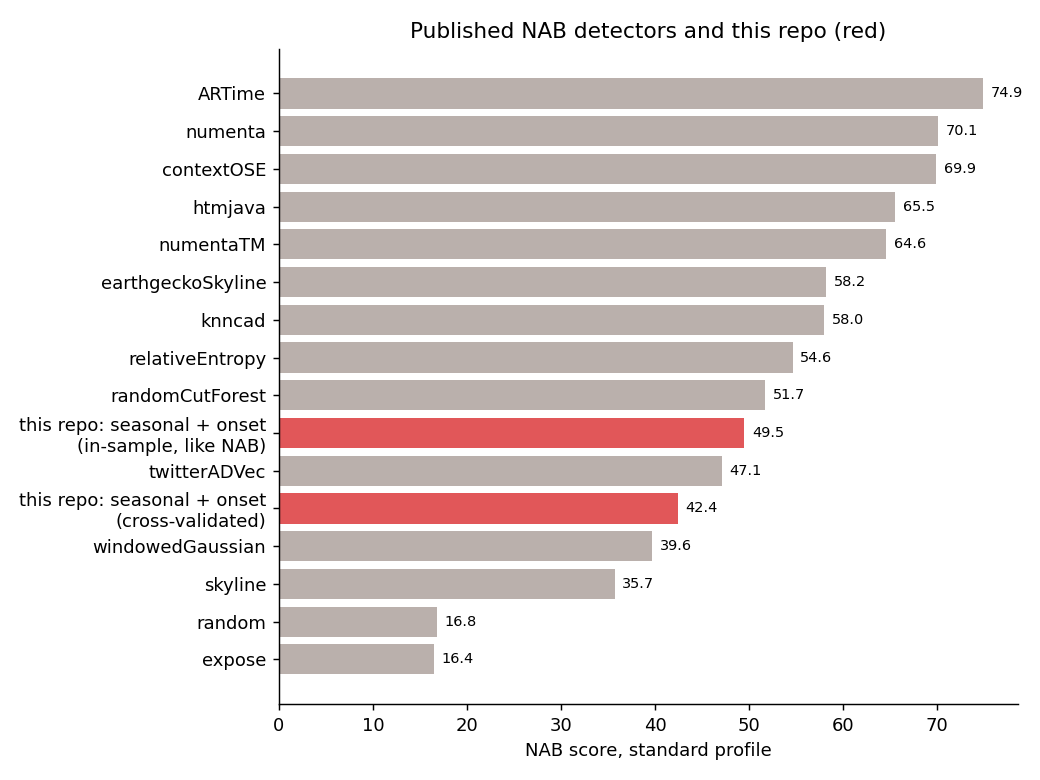
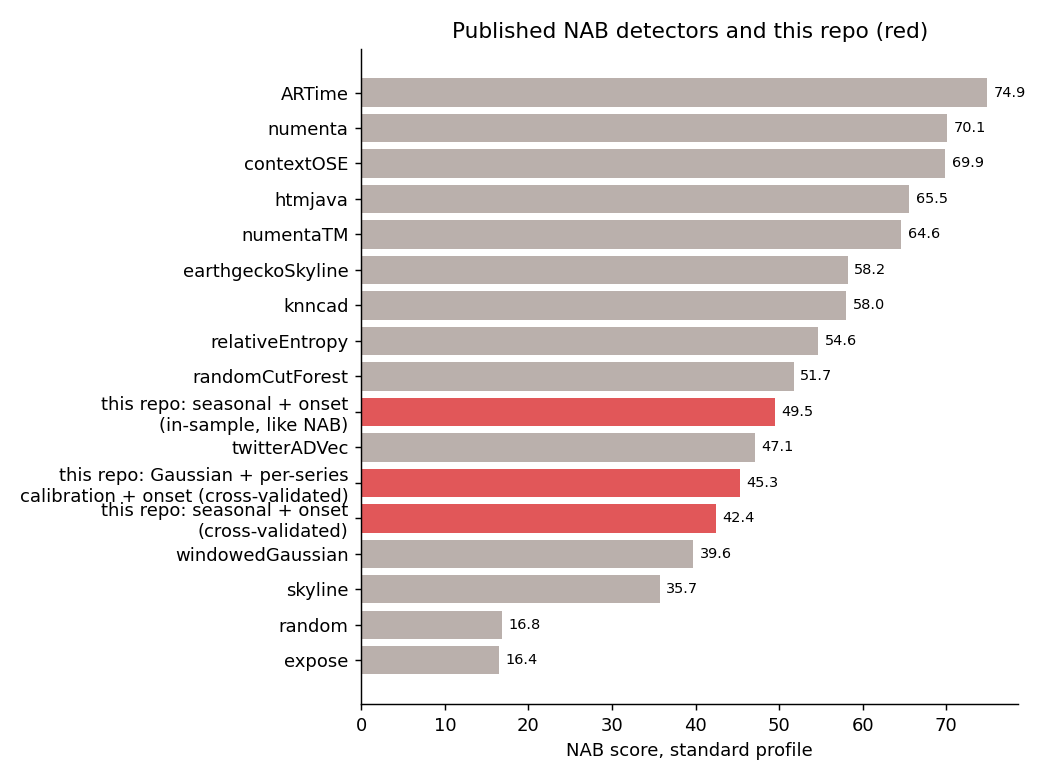
Per-series calibration: test the per-asset threshold the machine example suggested (#1)
detectors.calibrate ranks each score against its own series' past (no look-ahead).
Gaussian + calibration + onset scores 45.3 cross-validated (was 30.4; seasonal 42.4), with
the same k in all folds; known-cause 29 -> 50. It hurts the seasonal detector (42.4 -> 37.4)
and still misses the machine-temperature failure. New figure, README section 5, Pages section.

diff --git a/docs/index.html b/docs/index.html
@@ -71,14 +71,14 @@
   <div class="stats">
     <div class="stat"><b>9 / 9</b><span>published NAB results reproduced exactly by the scorer</span></div>
     <div class="stat"><b>2.4 &rarr; 41.0</b><span>seasonal detector once it reports only onsets</span></div>
-    <div class="stat"><b>42.4</b><span>cross-validated score (49.5 tuned in-sample)</span></div>
-    <div class="stat"><b>27.1</b><span>on the known-cause series, the weakest category</span></div>
+    <div class="stat"><b>45.3</b><span>cross-validated score with per-series calibration (seasonal: 42.4)</span></div>
+    <div class="stat"><b>27 &rarr; 50</b><span>known-cause series, single threshold vs per-series calibration</span></div>
   </div>
 </header>
 
 <h2><span class="num">01</span>Where it lands</h2>
 <figure>
-  <img src="img/leaderboard.png" alt="Horizontal bar chart of NAB standard scores: published detectors from expose 16.4 to ARTime 74.9, with this repo at 49.5 in-sample and 42.4 cross-validated, both above windowedGaussian 39.6.">
+  <img src="img/leaderboard.png" alt="Horizontal bar chart of NAB standard scores: published detectors from expose 16.4 to ARTime 74.9, with this repo at 49.5 in-sample, 42.4 and 45.3 cross-validated, all above windowedGaussian 39.6.">
   <figcaption>Published detectors (grey) and this repo (red). The cross-validated score chooses settings and threshold without the data it scores; most published numbers do not.</figcaption>
 </figure>
 
@@ -92,6 +92,12 @@
 <figure>
   <img src="img/machine.png" alt="Machine temperature series with four labelled anomaly windows and the detector score below; the score rises inside three windows to about 0.4-0.6, but the corpus threshold of 0.753 is above every value.">
   <figcaption>The detector reacts inside three of four windows on a real industrial failure, but the single corpus-wide threshold is set by the other 57 series and flags nothing here.</figcaption>
+</figure>
+
+<h2><span class="num">04</span>A per-series threshold, tested</h2>
+<figure>
+  <img src="img/calibration.png" alt="Grouped bars for four detectors: Gaussian 44.6 in-sample, 30.4 cross-validated, 29.3 known-cause; Gaussian with calibration 46.2, 45.3, 49.7; seasonal 49.5, 42.4, 27.1; seasonal with calibration 49.1, 37.4, 34.8.">
+  <figcaption>Ranking each score against its own series' history makes the Gaussian detector the best honest number (45.3, same setting in every fold) and lifts the known-cause series from 29 to 50. It hurts the seasonal detector, which is already scaled per series, and still misses the machine failure.</figcaption>
 </figure>
 
 <footer>

diff --git a/src/nabscore/calibration.py b/src/nabscore/calibration.py
@@ -1,0 +1,77 @@
+"""Corpus threshold vs per-series calibration, in-sample and leave-one-category-out.
+
+Same raw scores and onset reporting as crossval.py; the only change is whether the
+scores are ranked against each series' own history (detectors.calibrate) before the
+single NAB threshold is applied.
+"""
+from __future__ import annotations
+
+import json
+import pickle
+from pathlib import Path
+
+import numpy as np
+
+from . import detectors as D
+from .crossval import K_GRID, frames
+from .run import load_corpus
+from .scoring import PROFILES, load_windows, nab_score, raw_at
+
+
+def scores(raw, det, k, calibrated):
+    out = {}
+    for r, v in raw.items():
+        s = D.squash(v[det])
+        out[r] = D.onset(D.calibrate(s) if calibrated else s, k)
+    return out
+
+
+def cross_validated(corpus, windows, per_k):
+    cats = sorted({r.split("/")[0] for r in corpus})
+    total_raw, total_windows, picks = 0.0, 0, {}
+    for held in cats:
+        train = [r for r in corpus if not r.startswith(held + "/")]
+        test = [r for r in corpus if r.startswith(held + "/")]
+        fits = {k: nab_score(frames(corpus, per_k[k], train), {r: windows[r] for r in train}) for k in per_k}
+        k_best = max(fits, key=lambda k: fits[k]["score"])
+        raw_score, n_win = raw_at(frames(corpus, per_k[k_best], test), {r: windows[r] for r in test},
+                                  fits[k_best]["threshold"])
+        total_raw += raw_score
+        total_windows += n_win
+        picks[held] = k_best
+    w = PROFILES["standard"]
+    null, perfect = -w["fn"] * total_windows, w["tp"] * total_windows
+    return 100 * (total_raw - null) / (perfect - null), picks
+
+
+def by_category(corpus, windows, s):
+    out = {}
+    for c in sorted({r.split("/")[0] for r in corpus}):
+        files = [r for r in corpus if r.startswith(c + "/")]
+        if sum(len(windows[r]) for r in files):
+            out[c] = nab_score(frames(corpus, s, files), {r: windows[r] for r in files})["score"]
+    return out
+
+
+def main() -> None:
+    windows = load_windows()
+    corpus = load_corpus(windows)
+    raw = pickle.loads(Path("data/cache/raw.pkl").read_bytes())
+    out = {}
+    for det in ("gaussian", "seasonal"):
+        for calibrated in (False, True):
+            name = f"{det} + {'per-series calibration + ' if calibrated else ''}onset"
+            per_k = {k: scores(raw, det, k, calibrated) for k in K_GRID}
+            fits = {k: nab_score(frames(corpus, per_k[k], corpus), windows) for k in K_GRID}
+            k_in = max(fits, key=lambda k: fits[k]["score"])
+            cv, picks = cross_validated(corpus, windows, per_k)
+            out[name] = {"in_sample_by_k": {k: f["score"] for k, f in fits.items()}, "best_in_sample": fits[k_in]["score"],
+                         "k_in_sample": k_in, "threshold": fits[k_in]["threshold"], "cross_validated": cv,
+                         "k_picked": picks, "by_category": by_category(corpus, windows, per_k[k_in])}
+            print(name, round(fits[k_in]["score"], 1), f"k={k_in}", "CV", round(cv, 1), picks,
+                  {c: round(v, 1) for c, v in out[name]["by_category"].items()}, flush=True)
+    Path("reports/calibration.json").write_text(json.dumps(out, indent=2, default=float))
+
+
+if __name__ == "__main__":
+    main()

diff --git a/src/nabscore/figures.py b/src/nabscore/figures.py
@@ -44,6 +44,9 @@ def main() -> None:
     board = {k: v["standard"] for k, v in pub.items() if k != "null"}
     board["this repo: seasonal + onset\n(in-sample, like NAB)"] = summary["standard"]["score"]
     board["this repo: seasonal + onset\n(cross-validated)"] = cv["seasonal"]["cross_validated"]
+    cal = json.loads(Path("reports/calibration.json").read_text())
+    board["this repo: Gaussian + per-series\ncalibration + onset (cross-validated)"] = \
+        cal["gaussian + per-series calibration + onset"]["cross_validated"]
     items = sorted(board.items(), key=lambda kv: kv[1])
     fig, ax = plt.subplots(figsize=(8, 6))
     colors = ["#E15759" if "this repo" in k else "#BAB0AC" for k, _ in items]
@@ -55,6 +58,29 @@ def main() -> None:
     ax.spines[["top", "right"]].set_visible(False)
     fig.tight_layout()
     fig.savefig(OUT / "leaderboard.png", dpi=130)
+    plt.close(fig)
+
+    # 1b. Per-series calibration: in-sample vs cross-validated, and the known-cause category
+    names = ["gaussian + onset", "gaussian + per-series calibration + onset",
+             "seasonal + onset", "seasonal + per-series calibration + onset"]
+    labels = ["Gaussian", "Gaussian\n+ calibration", "Seasonal", "Seasonal\n+ calibration"]
+    series = [("in-sample", [cal[n]["best_in_sample"] for n in names], "#BAB0AC"),
+              ("cross-validated", [cal[n]["cross_validated"] for n in names], "#E15759"),
+              ("known-cause category", [cal[n]["by_category"]["realKnownCause"] for n in names], "#4E79A7")]
+    fig, ax = plt.subplots(figsize=(8, 4.2))
+    x = np.arange(len(names))
+    for j, (lab, vals, col) in enumerate(series):
+        ax.bar(x + (j - 1) * 0.27, vals, 0.27, label=lab, color=col)
+        for i, v in enumerate(vals):
+            ax.text(x[i] + (j - 1) * 0.27, v + 0.8, f"{v:.0f}", ha="center", fontsize=8)
+    ax.set_xticks(x, labels)
+    ax.set_ylabel("NAB score, standard profile")
+    ax.set_title("Ranking each score against its own series' history (all with onset reporting)")
+    ax.set_ylim(0, 60)
+    ax.legend(frameon=False, fontsize=8, loc="upper center", ncol=3)
+    ax.spines[["top", "right"]].set_visible(False)
+    fig.tight_layout()
+    fig.savefig(OUT / "calibration.png", dpi=130)
     plt.close(fig)
 
     # 2. Onset effect, in-sample at k = 100 vs without

diff --git a/src/nabscore/detectors.py b/src/nabscore/detectors.py
@@ -103,3 +103,24 @@ def onset(score: np.ndarray, k: int = 100) -> np.ndarray:
 def squash(raw: np.ndarray) -> np.ndarray:
     """Map a non-negative raw score to [0, 1) without per-series calibration."""
     return 1 - np.exp(-np.asarray(raw, dtype=float) / 5.0)
+
+
+def calibrate(score: np.ndarray, burn_in: int = 100) -> np.ndarray:
+    """Per-series threshold: the percentile of each score among the series' own past scores.
+
+    NAB applies one threshold to all 58 series, so a score of 0.5 must mean the same on a
+    noisy CPU trace and on a quiet machine temperature. Ranking each score against what
+    the same series has produced so far (no look-ahead) turns the single corpus threshold
+    into a different raw cut-off per series: "the most unusual reading this asset has
+    shown". New maxima land just under 1, closer to it the longer the history.
+    """
+    import bisect
+    s = np.asarray(score, dtype=float)
+    out = np.zeros(len(s))
+    past: list[float] = []
+    for t, v in enumerate(s):
+        n = len(past)
+        if n >= burn_in:
+            out[t] = (bisect.bisect_left(past, v) + 0.5 * (bisect.bisect_right(past, v) - bisect.bisect_left(past, v))) / (n + 1)
+        bisect.insort(past, v)
+    return out

diff --git a/tests/test_scoring.py b/tests/test_scoring.py
@@ -60,3 +60,16 @@ def test_onset_only_looks_back():
     s2 = s.copy()
     s2[-1] = 0.0
     assert onset(s2, k=3)[:-1].tolist() == out[:-1].tolist()
+
+
+def test_calibrate_uses_only_the_past_and_ranks_per_series():
+    from nabscore.detectors import calibrate
+    rng = np.random.default_rng(0)
+    quiet, noisy = rng.normal(0, 1, 500), rng.normal(0, 50, 500)
+    quiet[400] = noisy[400] = 60.0    # 60 sigma for the quiet series, about one for the noisy one
+    cq, cn = calibrate(np.abs(quiet)), calibrate(np.abs(noisy))
+    assert (cq[:100] == 0).all()                        # burn-in
+    assert cq[400] > 0.99 and cn[400] < 0.9
+    changed = np.abs(quiet).copy()
+    changed[450:] = 1e6                                 # the future does not move earlier values
+    assert np.array_equal(calibrate(changed)[:450], cq[:450])

diff --git a/README.es.md b/README.es.md
@@ -17,8 +17,9 @@ mueve el puntaje.
 
 | | Puntaje NAB estándar |
 |---|---|
-| **Residuo estacional + reporte de inicio, con validación cruzada** | **42,4** |
-| Mismo detector, con parámetros y umbral elegidos sobre todo el corpus (la convención de NAB) | 49,5 |
+| **Gaussiano + calibración por serie + reporte de inicio, con validación cruzada** | **45,3** |
+| Residuo estacional + reporte de inicio, con validación cruzada | 42,4 |
+| Residuo estacional, con parámetros y umbral elegidos sobre todo el corpus (la convención de NAB) | 49,5 |
 | Baseline publicado `windowedGaussian` | 39,6 |
 | Numenta HTM publicado / mejor publicado (ARTime) | 70,1 / 74,9 |
 
@@ -78,6 +79,34 @@ Se probó un post-proceso de "verosimilitud" (medir qué tan inusual es un punta
 propia historia, en la línea del anomaly likelihood de Numenta) y empeoró todos los detectores aquí;
 queda en el código por completitud.
 
+### 5. Un umbral por serie, puesto a prueba
+
+![Calibración](docs/img/calibration.png)
+
+El ejemplo de la máquina sugiere que cada equipo necesita su propio corte. NAB permite un solo
+umbral, pero un detector puede calibrarse solo: `detectors.calibrate` reemplaza cada puntaje por su
+percentil entre los puntajes que esa misma serie ha producido hasta ese momento (sin mirar el
+futuro), así que el umbral del corpus significa en cada serie "la lectura más inusual que ha mostrado
+este equipo". Evaluado igual que antes:
+
+| Detector, con reporte de inicio | Dentro de muestra | Validación cruzada | Causa conocida |
+|---|---|---|---|
+| Gaussiano | 44,6 | 30,4 | 29,3 |
+| **Gaussiano + calibración por serie** | 46,2 | **45,3** | **49,7** |
+| Estacional | 49,5 | 42,4 | 27,1 |
+| Estacional + calibración por serie | 49,1 | 37,4 | 34,8 |
+
+La calibración rescata al detector gaussiano: sube 15 puntos con validación cruzada, elige el mismo
+k = 400 en los siete pliegues y casi no hay brecha entre dentro de muestra y validación cruzada, lo
+que lo deja como el mejor número honesto del repositorio. La categoría de causa conocida pasa de 29 a
+50. Al detector estacional lo empeora (42,4 a 37,4): su residuo ya viene escalado por la MAD de cada
+serie, y volver a rankearlo solo agrega falsas alarmas en las series artificiales (91 a 78).
+
+Tampoco rescata la serie de temperatura de la máquina: ahí los detectores calibrados detectan una de
+cuatro ventanas, con 21 a 27 falsas alarmas. La calibración arregla el problema de *escala* entre
+equipos; no arregla un detector cuyos puntajes en períodos normales se parecen a los de antes de una
+falla.
+
 ## Método
 
 ```
@@ -89,7 +118,8 @@ queda en el código por completitud.
    │                 residuo estacional contra la misma fase de días/semanas anteriores, cambio de
    │                 distribución KS, post-proceso de verosimilitud, reporte de inicio
    ├── run.py        cada detector x post-proceso sobre el corpus
-   └── crossval.py   elección de k y umbral dejando una categoría fuera
+   ├── crossval.py   elección de k y umbral dejando una categoría fuera
+   └── calibration.py  umbral del corpus vs calibración por serie, dentro de muestra y con validación cruzada
 ```
 
 ## Datos
@@ -110,6 +140,7 @@ python -m nabscore.labels       # ventanas, perfiles y resultados publicados des
 python -m nabscore.validate     # scorer contra los resultados publicados
 python -m nabscore.run          # ~4 min la primera vez (los puntajes brutos quedan en caché)
 python -m nabscore.crossval
+python -m nabscore.calibration
 python -m nabscore.figures
 pytest -q tests
 ```

diff --git a/README.md b/README.md
@@ -16,8 +16,9 @@ simple online detectors to find out what actually moves the score.
 
 | | NAB standard score |
 |---|---|
-| **Seasonal residual + onset reporting, cross-validated** | **42.4** |
-| Same detector, settings and threshold chosen on the whole corpus (the NAB convention) | 49.5 |
+| **Gaussian + per-series calibration + onset reporting, cross-validated** | **45.3** |
+| Seasonal residual + onset reporting, cross-validated | 42.4 |
+| Seasonal residual, settings and threshold chosen on the whole corpus (the NAB convention) | 49.5 |
 | Published `windowedGaussian` baseline | 39.6 |
 | Published Numenta HTM / best published (ARTime) | 70.1 / 74.9 |
 
@@ -74,6 +75,33 @@ A "likelihood" post-processing step (scoring how unusual a raw score is against 
 in the spirit of Numenta's anomaly likelihood) was tested and lowered every detector here; it is
 kept in the code for completeness.
 
+### 5. A per-series threshold, tested
+
+![Calibration](docs/img/calibration.png)
+
+The machine example suggests each asset needs its own cut-off. NAB allows only one threshold, but a
+detector can calibrate itself: `detectors.calibrate` replaces each score by its percentile among the
+scores that same series has produced so far (no look-ahead), so the corpus threshold means "the most
+unusual reading this asset has shown" on every series. Scored the same way as above:
+
+| Detector, with onset reporting | In-sample | Cross-validated | Known-cause |
+|---|---|---|---|
+| Gaussian | 44.6 | 30.4 | 29.3 |
+| **Gaussian + per-series calibration** | 46.2 | **45.3** | **49.7** |
+| Seasonal | 49.5 | 42.4 | 27.1 |
+| Seasonal + per-series calibration | 49.1 | 37.4 | 34.8 |
+
+Calibration rescues the Gaussian detector: cross-validated score up 15 points, the same k = 400
+picked in all seven folds, and almost no gap between in-sample and cross-validated, which makes it
+the best honest number here. The known-cause category goes from 29 to 50. It hurts the seasonal
+detector (42.4 to 37.4), whose residual is already scaled by each series' own MAD: ranking it again
+adds nothing except more false alarms on the artificial series (91 to 78).
+
+It does not rescue the machine-temperature series itself: the calibrated detectors catch one of
+four windows there, with 21 to 27 false alarms. Calibration fixes the *scale* problem across
+assets; it cannot fix a detector whose scores in normal periods look like its scores before a
+failure.
+
 ## Method
 
 ```
@@ -85,7 +113,8 @@ kept in the code for completeness.
    │                 seasonal residual vs the same phase of past days/weeks, KS distribution shift,
    │                 likelihood post-processing, onset reporting
    ├── run.py        every detector x post-processing on the corpus
-   └── crossval.py   leave-one-category-out choice of k and threshold
+   ├── crossval.py   leave-one-category-out choice of k and threshold
+   └── calibration.py  corpus threshold vs per-series calibration, in-sample and cross-validated
 ```
 
 ## Data
@@ -106,6 +135,7 @@ python -m nabscore.labels       # windows, profiles and published results from G
 python -m nabscore.validate     # scorer vs published results
 python -m nabscore.run          # ~4 min the first time (raw scores are cached)
 python -m nabscore.crossval
+python -m nabscore.calibration
 python -m nabscore.figures
 pytest -q tests
 ```
